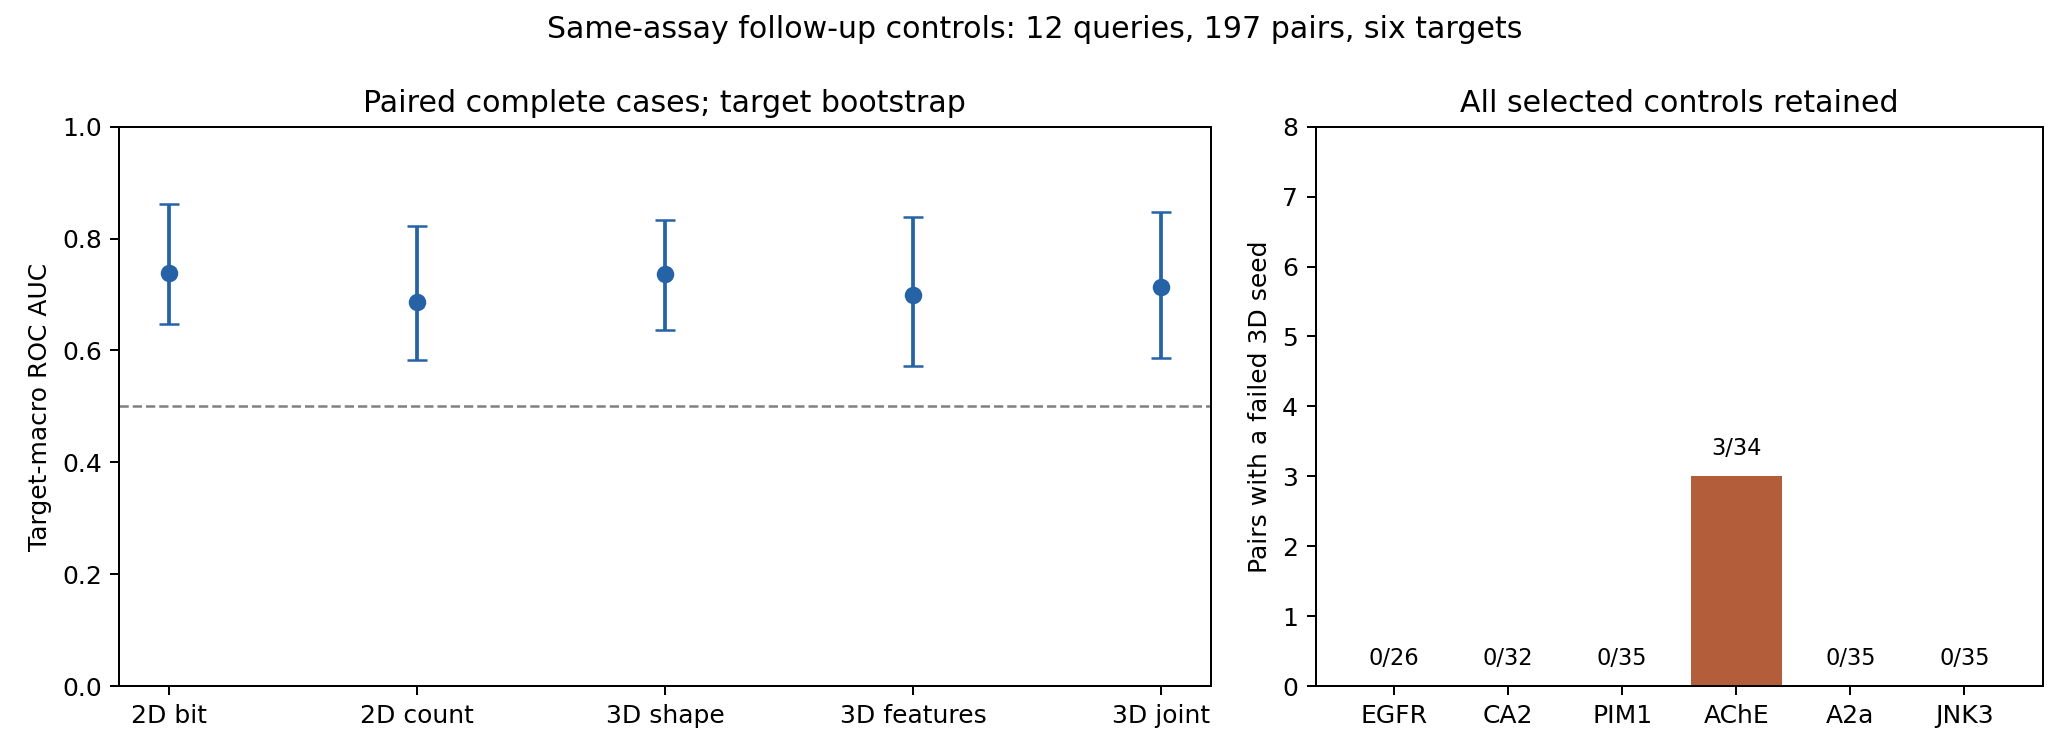
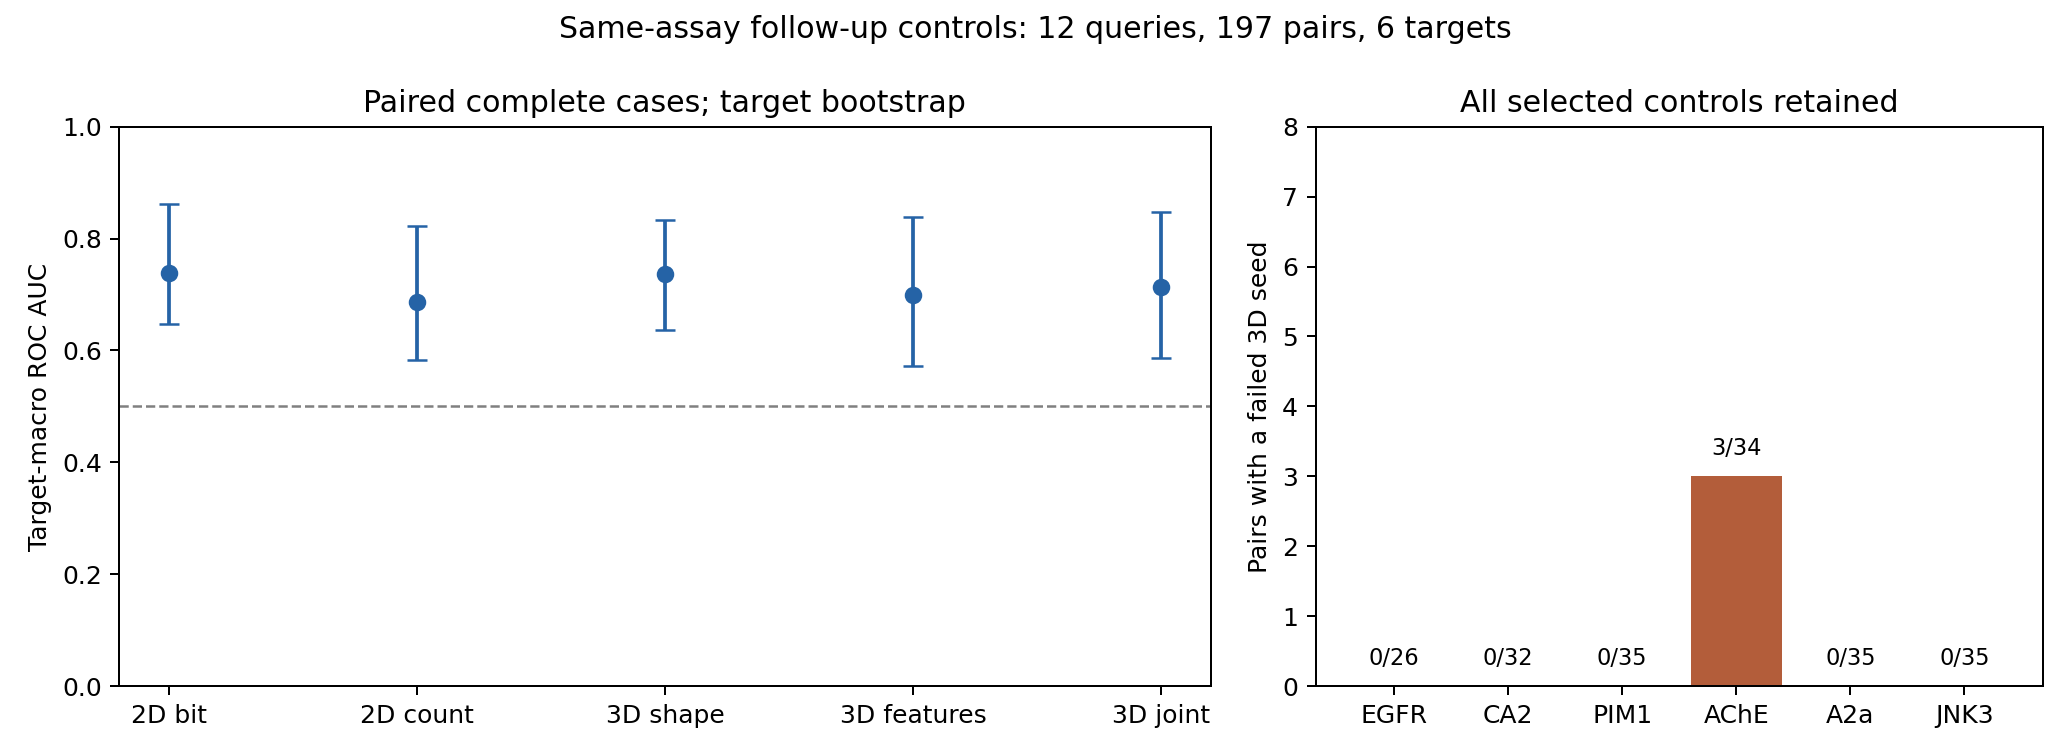
Verify portable assay scoring against real successes and failures

Changed region(s): [[0.2473, 0.0, 0.742, 0.0608]]

diff --git a/benchmarks/results/assay-matched-controls-20261016/analyze.py b/benchmarks/results/assay-matched-controls-20261016/analyze.py
@@ -300,7 +300,9 @@ def main():
         )
     fail.set(ylabel="Pairs with a failed 3D seed", title="All selected controls retained")
     fail.set_ylim(0, max([counts[k]["failed_3d_pairs"] for k in keys] + [1]) + 5)
-    fig.suptitle("Same-assay follow-up controls: 12 queries, 197 pairs, six targets")
+    fig.suptitle(
+        f"Same-assay follow-up controls: {len(panel['queries'])} queries, {len(rows)} pairs, {len(counts)} targets"
+    )
     fig.tight_layout()
     for ext in ["png", "pdf"]:
         fig.savefig(args.output / f"controls.{ext}", dpi=180)

diff --git a/benchmarks/results/assay-matched-controls-20261016/README.md b/benchmarks/results/assay-matched-controls-20261016/README.md
@@ -48,6 +48,21 @@ The portable script reproduces the recorded numerical report exactly. To reconst
 
 The [source round trip](source_roundtrip.json) rebuilt all 5,890 curated records and all exclusions from that ZIP, then reproduced the selected panel, 197 pairs and 12 public queries. Every pre-existing availability field matched. The final curator additionally emits six minimum-five-controls/one-active-scaffold summary counts; these were independently recomputed from the original per-query availability and matched. This additive metadata difference is recorded rather than described as byte-identical reproduction.
 
+After reconstructing `benchmark-results/assay-matched-selected/panel.json`, compute its chemical scores with the portable CLI:
+
+```bash
+python -m benchmarks.research.assay_control_scoring \
+  --panel benchmark-results/assay-matched-selected/panel.json \
+  --conformers benchmarks/results/research-validation-20261016/common-conformers.json \
+  --seeds 42 43 44 --workers 3 \
+  --output benchmark-results/recomputed-assay-matched-scores
+python benchmarks/results/assay-matched-controls-20261016/analyze.py \
+  --input benchmark-results/recomputed-assay-matched-scores \
+  --output benchmark-results/recomputed-assay-matched-chemistry-analysis
+```
+
+Commit `f3aebcbea82faf928e4f420e733dd1b2aa344391` provides this CLI with the original scoring implementation. Use a separate checkout and the pinned requirements when reproducing that version. The CLI independently reproduced all score values and seed outcomes for the first query's 16 real controls. The three known stereo-policy failures were also replayed, retaining identical 2D scores and failed seed outcomes without a partial 3D aggregate. Direct fingerprint recomputation matched both 2D scores exactly for all 197 pairs. The integrated software passed **436 tests**; [portable_cli_validation.json](portable_cli_validation.json) records these checks. This 16-pair replay is a software equivalence check, not a new evaluation cohort.
+
 The original chemical scores used the scoring implementation present at commit `3c8ad2b619d8168e061d63467b6b9391e2464d2d`; [protocol.json](protocol.json) pins individual source hashes and settings. [input_audit.json](input_audit.json) records independent source-payload validation and deterministic selection reproduction. [validation.json](validation.json) records the 403-test integration check.
 
 The later optimization at `53709051` reuses an alignment only when the two references are the same ensemble object. An independent check on the first selected control of each of these 12 queries found exactly identical score/diagnostic dictionaries and coordinates, with half as many overlay calls. Its full regression suite passed 411 tests. [overlay_reuse_validation.json](overlay_reuse_validation.json) retains the individual checks and diagnostic timings; shared-host warm-scoring timings are not a general generation-throughput claim. The recorded control scores and running generation comparisons keep their original implementation and observations.
